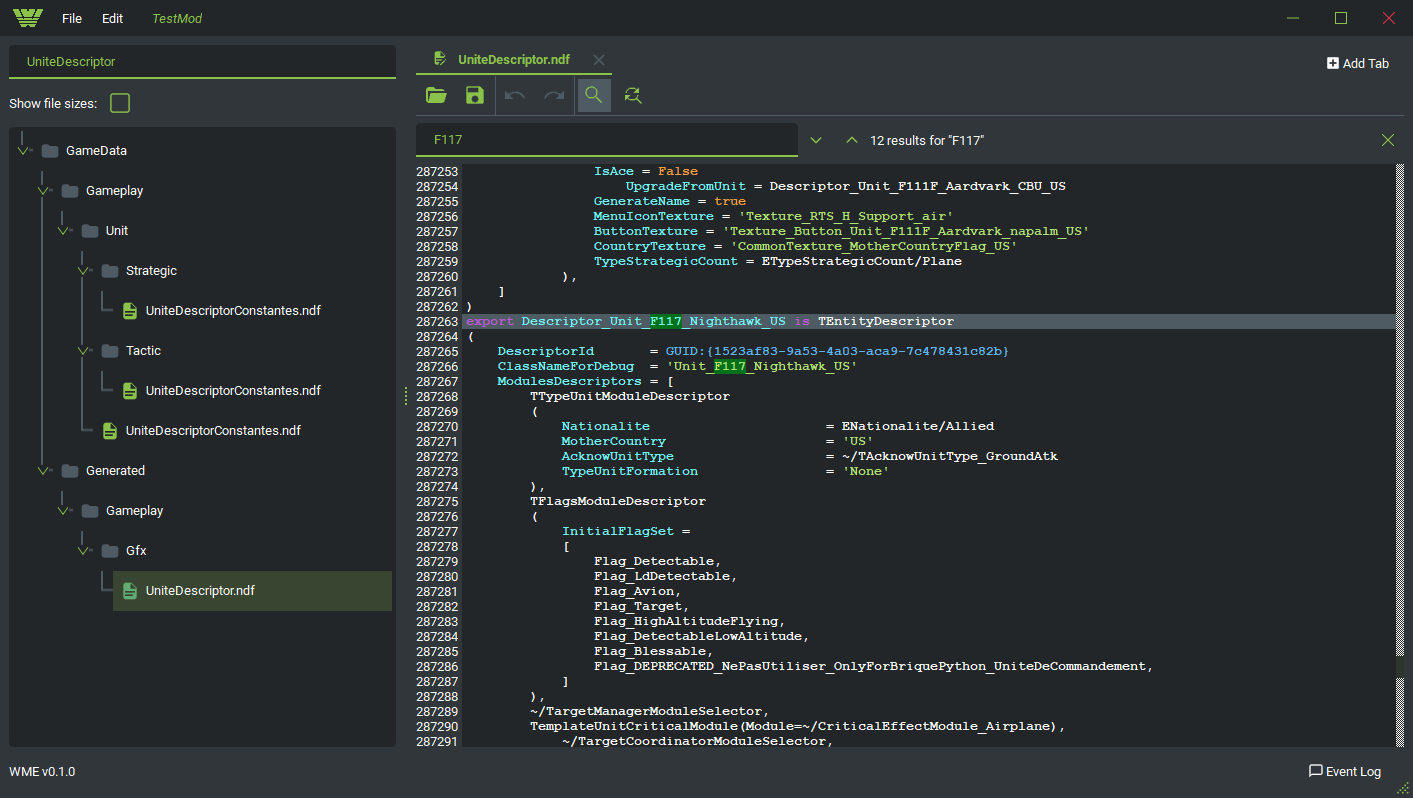
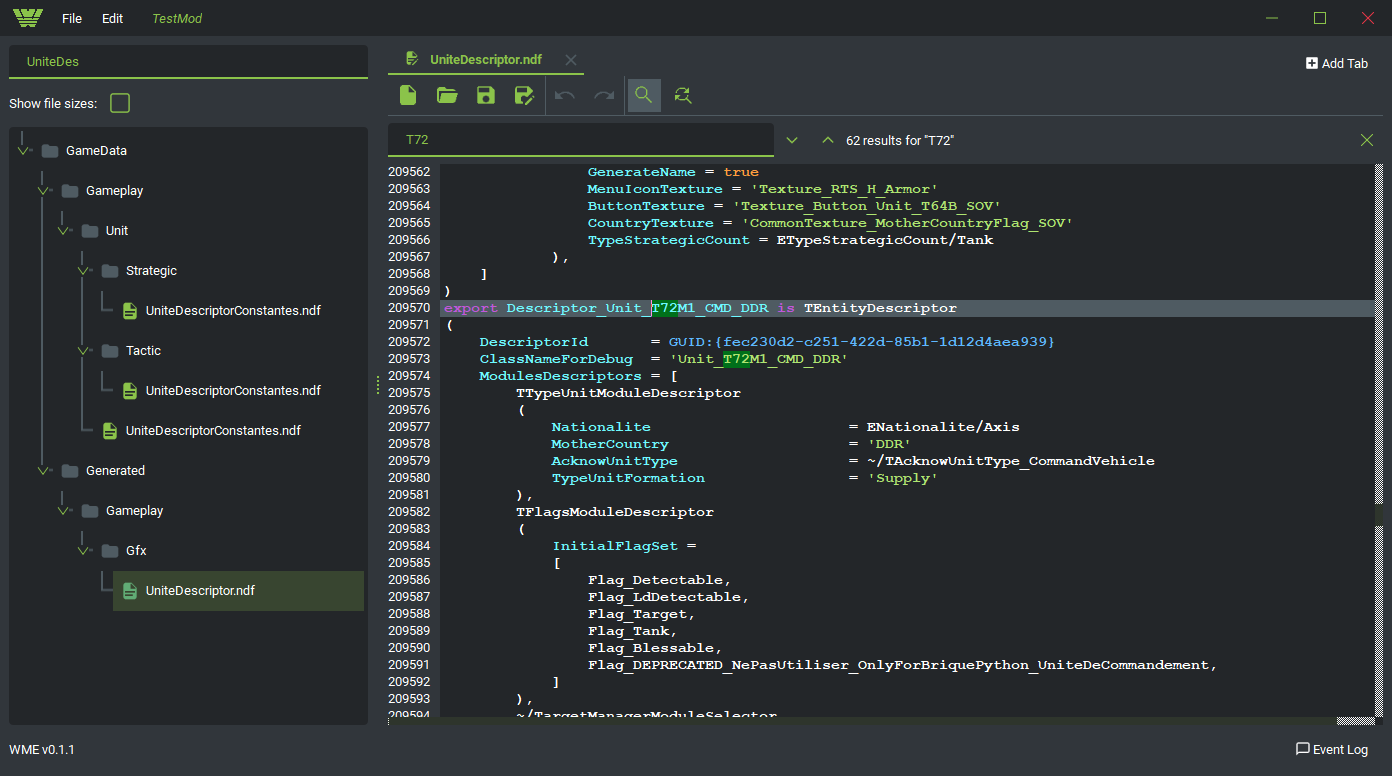
v0.1.1 release

diff --git a/main.py b/main.py
@@ -46,7 +46,7 @@ if __name__ == '__main__':
     sys.excepthook = exception_handler.exceptHook
 
     # set version
-    version = "0.1.0"
+    version = "0.1.1"
     settings_manager.write_settings_value(settings_manager.VERSION_KEY, version)
     logging.info("\n\n")
     logging.info("Starting WME " + version)
